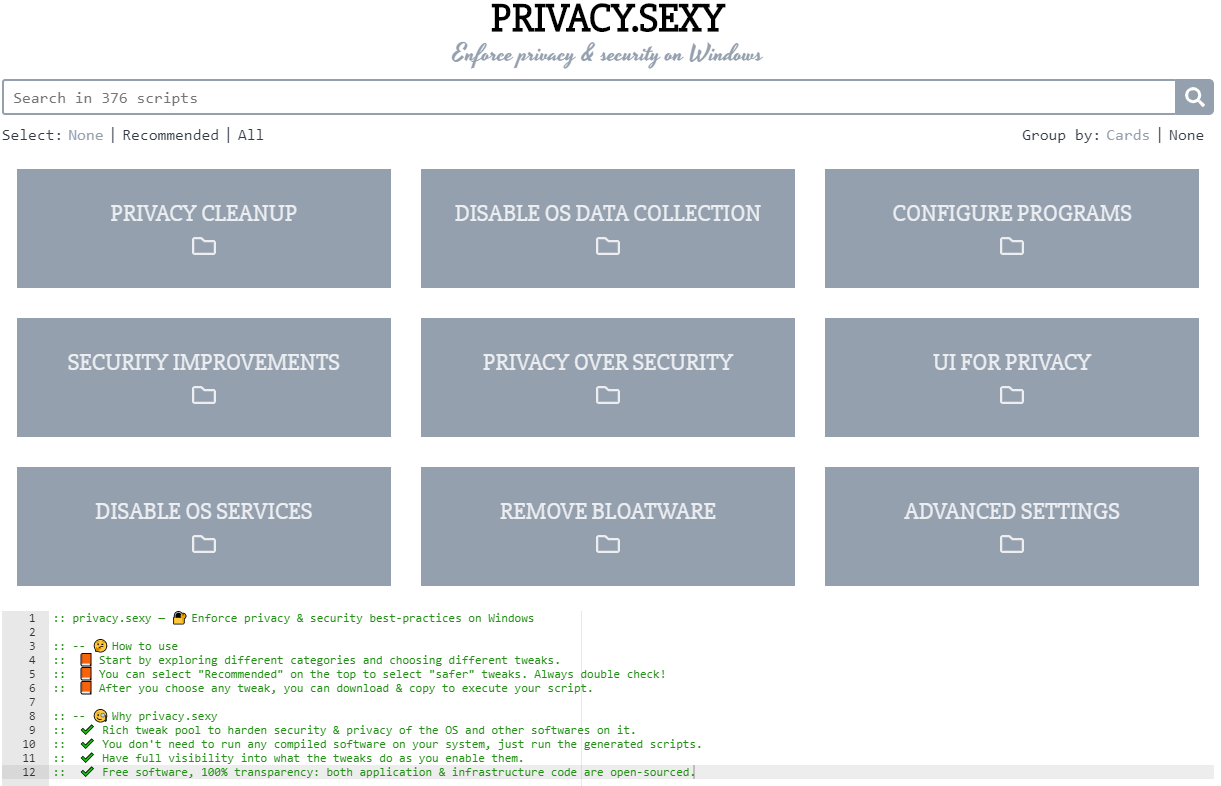
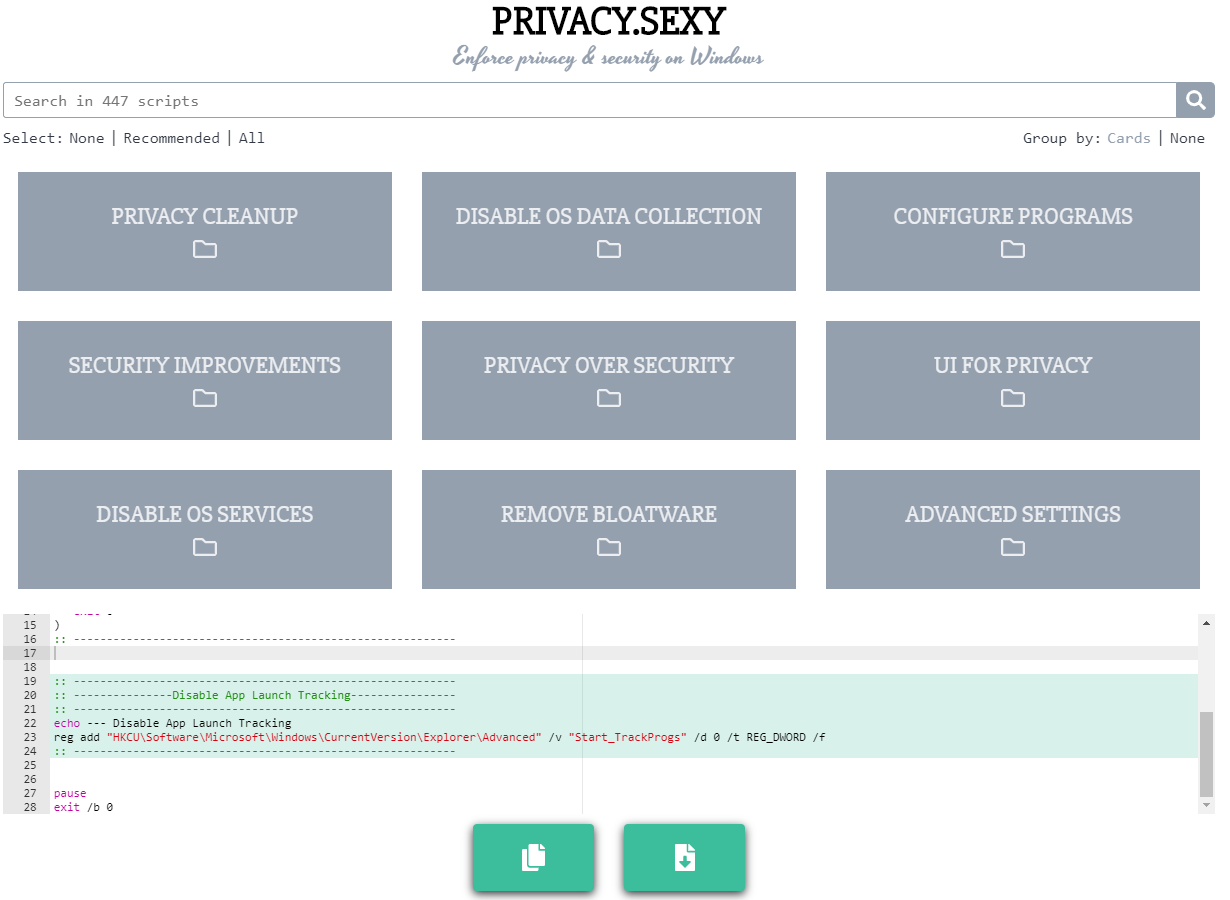
update the screenshot to show off highlighting

diff --git a/README.md b/README.md
@@ -17,7 +17,7 @@
 - Online version: [https://privacy.sexy](https://privacy.sexy)
   - or download latest desktop version for [Windows](https://github.com/undergroundwires/privacy.sexy/releases/download/0.6.2/privacy.sexy-Setup-0.6.2.exe), [Linux](https://github.com/undergroundwires/privacy.sexy/releases/download/0.6.2/privacy.sexy-0.6.2.AppImage), [macOS](https://github.com/undergroundwires/privacy.sexy/releases/download/0.6.2/privacy.sexy-0.6.2.dmg)
 
-![privacy.sexy application](img/app.png)
+[![privacy.sexy application](img/app.png)](https://privacy.sexy)
 
 ## Why
 
